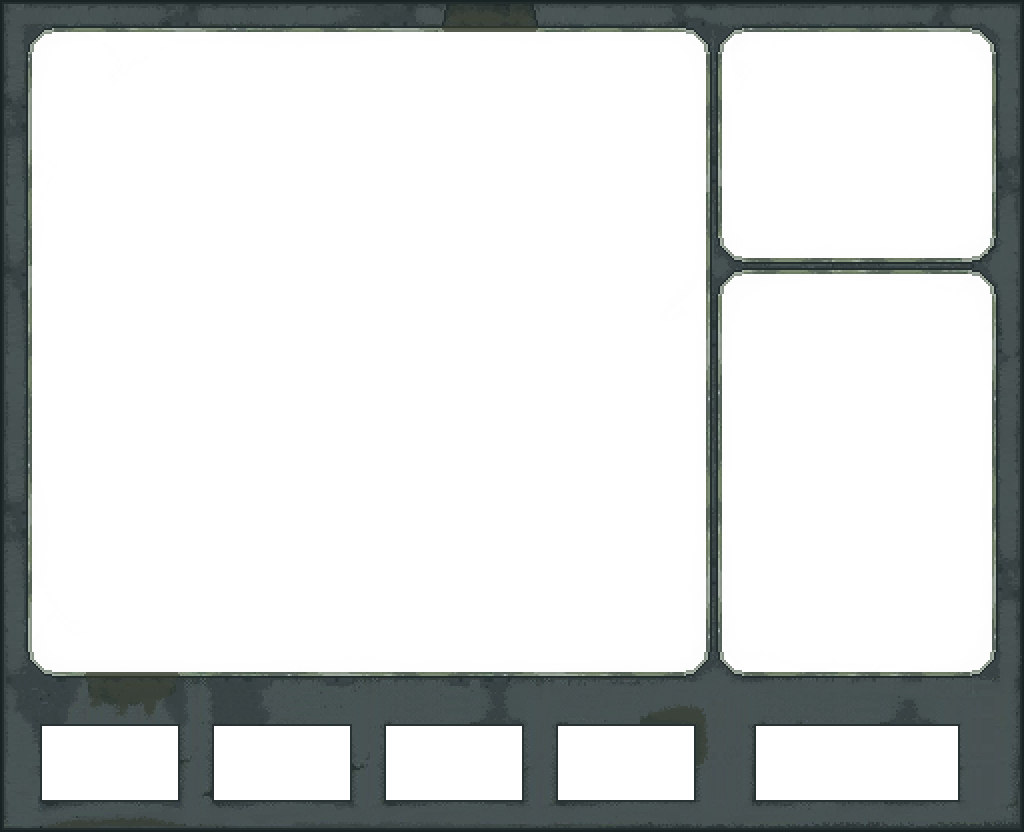
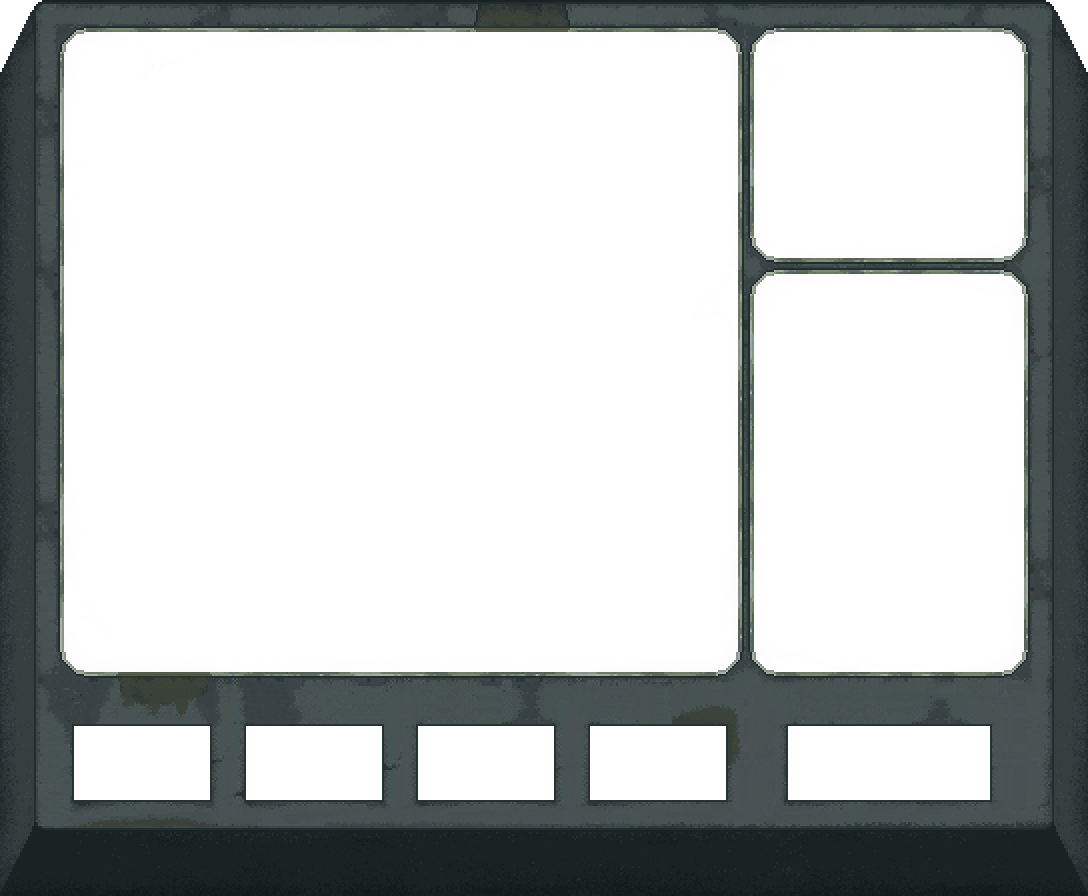
-Update background image and style

Changed region(s): [[0.0, 0.0, 1.0, 1.0]]

diff --git a/src/assets/css/main.module.css b/src/assets/css/main.module.css
@@ -10,8 +10,8 @@
 }
 
 .mainSection {
-  width: 1024px;
-  height: 832px;
+  width: 1088px;
+  height: 896px;
   background-color: transparent;
   position: relative;
   display: flex;
@@ -33,7 +33,7 @@
   flex-direction: column;
   justify-content: space-between;
   align-items: center;
-  padding: 32px;
+  padding: 32px 64px 96px 64px;
   gap: 16px;
 }
 

diff --git a/src/assets/css/layout/footerSection.module.css b/src/assets/css/layout/footerSection.module.css
@@ -3,8 +3,8 @@
   z-index: 11;
   width: calc(1024px - 64px);
   height: 112px;
-  bottom: 32px;
-  left: 32px;
+  bottom: 96px;
+  left: 64px;
   display: flex;
   justify-content: center;
   align-items: center;

diff --git a/src/assets/css/layout/resultSection.module.css b/src/assets/css/layout/resultSection.module.css
@@ -4,7 +4,7 @@
   width: 270px;
   height: 398px;
   top: calc(226px + 16px + 32px);
-  right: 32px;
+  right: 64px;
   display: flex;
   justify-content: center;
   align-items: center;

diff --git a/src/assets/css/layout/predictionSection.module.css b/src/assets/css/layout/predictionSection.module.css
@@ -4,7 +4,7 @@
   width: 270px;
   height: 226px;
   top: 32px;
-  right: 32px;
+  right: 64px;
   display: flex;
   justify-content: center;
   align-items: center;

diff --git a/src/assets/css/layout/dashboardSection.module.css b/src/assets/css/layout/dashboardSection.module.css
@@ -4,7 +4,7 @@
   width: 674px;
   height: 640px;
   top: 32px;
-  left: 32px;
+  left: 64px;
   display: flex;
   justify-content: center;
   align-items: center;
